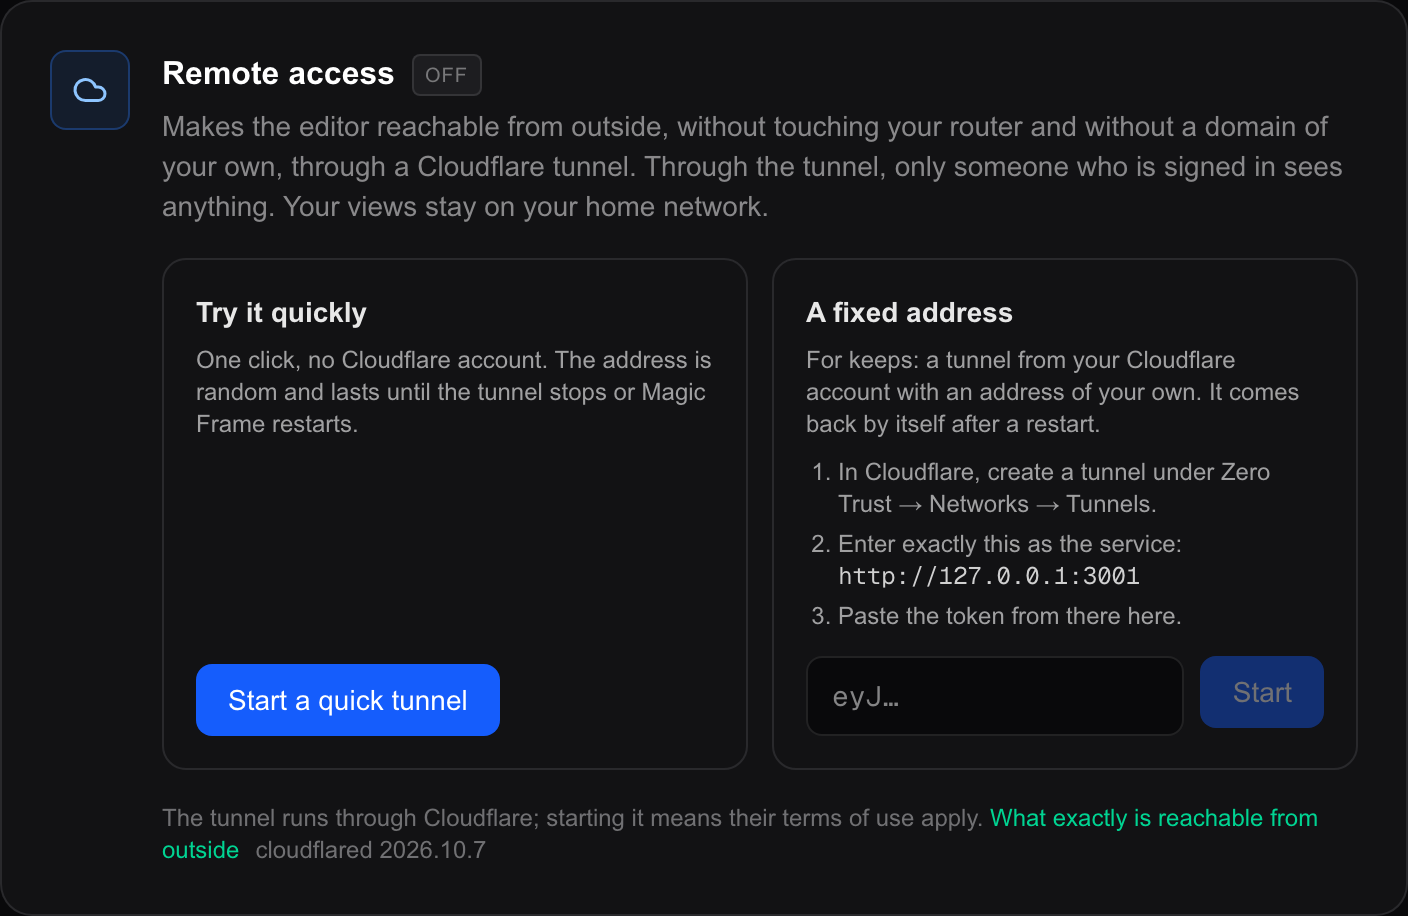
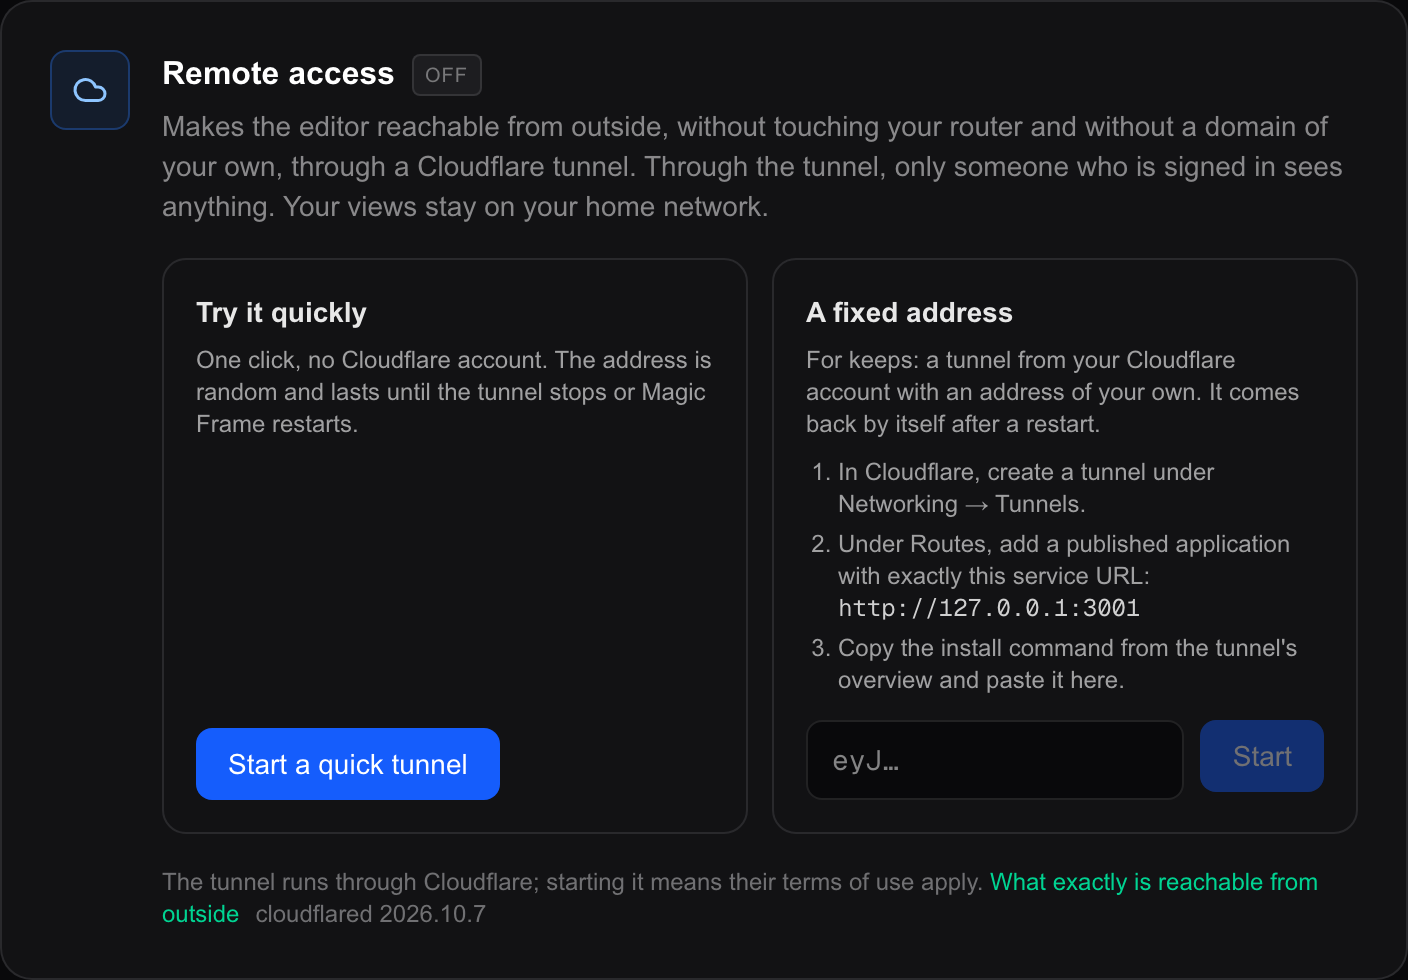
docs(tunnel): Cloudflare moved its tunnels to Networking → Tunnels
The card and the wiki still sent people to Zero Trust → Networks →
Tunnels, which now only says that tunnels have moved. The steps follow the
dashboard as it is now: Networking → Tunnels, a route of the kind
"Published application" with the service URL, and the install command from
the tunnel's overview — the dashboard shows the token only masked, its copy
button copies all of it. The wiki also says that deleting a tunnel leaves
its DNS record behind, and what the card's new reason under a refused token
means.

The settings shots are taken again, on a fresh demo database, because the
settings page changed.

diff --git a/src/lib/i18n/en.ts b/src/lib/i18n/en.ts
@@ -2340,9 +2340,9 @@ export const EN: Record<string, string> = {
   "Schnell-Tunnel starten": "Start a quick tunnel",
   "Feste Adresse": "A fixed address",
   "Für dauerhaft: ein Tunnel aus deinem Cloudflare-Konto mit eigener Adresse. Er startet nach einem Neustart von selbst wieder.": "For keeps: a tunnel from your Cloudflare account with an address of your own. It comes back by itself after a restart.",
-  "In Cloudflare unter Zero Trust → Networks → Tunnels einen Tunnel anlegen.": "In Cloudflare, create a tunnel under Zero Trust → Networks → Tunnels.",
-  "Als Dienst genau das eintragen:": "Enter exactly this as the service:",
-  "Das Token von dort hier einfügen.": "Paste the token from there here.",
+  "In Cloudflare unter Netzwerk → Tunnel einen Tunnel anlegen.": "In Cloudflare, create a tunnel under Networking → Tunnels.",
+  "Unter Routen eine veröffentlichte Anwendung hinzufügen, als Service-URL genau:": "Under Routes, add a published application with exactly this service URL:",
+  "In der Übersicht des Tunnels den Installationsbefehl kopieren und hier einfügen.": "Copy the install command from the tunnel's overview and paste it here.",
   "Festen Tunnel starten": "Start the fixed tunnel",
   "Token vergessen": "Forget the token",
   "Ein Token ist hinterlegt.": "A token is stored.",

diff --git a/src/app/editor/(app)/settings/page.tsx b/src/app/editor/(app)/settings/page.tsx
@@ -780,11 +780,11 @@ function TunnelCard() {
                   {t("Für dauerhaft: ein Tunnel aus deinem Cloudflare-Konto mit eigener Adresse. Er startet nach einem Neustart von selbst wieder.")}
                 </p>
                 <ol className="list-decimal ml-4 mt-2 mb-3 space-y-1">
-                  <li>{t("In Cloudflare unter Zero Trust → Networks → Tunnels einen Tunnel anlegen.")}</li>
+                  <li>{t("In Cloudflare unter Netzwerk → Tunnel einen Tunnel anlegen.")}</li>
                   <li>
-                    {t("Als Dienst genau das eintragen:")} <code className="font-mono text-[var(--mf-fg)]/80">{gateService}</code>
+                    {t("Unter Routen eine veröffentlichte Anwendung hinzufügen, als Service-URL genau:")} <code className="font-mono text-[var(--mf-fg)]/80">{gateService}</code>
                   </li>
-                  <li>{t("Das Token von dort hier einfügen.")}</li>
+                  <li>{t("In der Übersicht des Tunnels den Installationsbefehl kopieren und hier einfügen.")}</li>
                 </ol>
                 {info.hasStoredToken ? (
                   <div className="mt-auto flex flex-wrap items-center gap-2">

diff --git a/wiki/hosting-and-domain.md b/wiki/hosting-and-domain.md
@@ -174,15 +174,25 @@ tunnel stays up.
 
 This needs a Cloudflare account with a domain in it.
 
-1. In the Cloudflare dashboard, go to `Zero Trust → Networks → Tunnels` and
-   create a tunnel of the type *Cloudflared*.
-2. Add a public hostname to it. As the **service**, enter exactly
-   `http://127.0.0.1:3001` — the card shows the line to copy.
-3. Copy the tunnel's token and paste it into the card. You can paste the whole
-   install command Cloudflare shows; Magic Frame picks the token out of it.
+1. In the Cloudflare dashboard, go to **Networking → Tunnels** (German:
+   `Netzwerk → Tunnel`; the old place under Zero Trust only says that they
+   have moved). Create a tunnel; only a name is asked.
+2. On the tunnel's **Routes** tab, select **Add route → Published
+   application**. Choose the subdomain and the domain — the dashboard
+   preselects one of your domains, so check that it is the right one. As the
+   **Service URL**, enter exactly `http://127.0.0.1:3001` — the card shows the
+   line to copy.
+3. On the tunnel's overview, copy the install command (for example *Debian →
+   Install as service*) and paste it into the card. The dashboard shows the
+   token masked, but its copy button copies all of it; Magic Frame picks the
+   token out of the command.
 
 The tunnel now comes back after every restart. The token is stored for that and
 is never shown again; **Forget the token** (`Token vergessen`) removes it.
+
+Should you delete the tunnel in Cloudflare one day: the address stays in your
+domain's DNS records and has to be removed there by hand. Cloudflare says so
+when you delete it.
 
 The service address matters. `3001` is the entrance with the rule above; the
 normal port is not. Magic Frame checks what the Cloudflare dashboard says: if
@@ -457,7 +467,8 @@ interface. See [The Home Assistant add-on](home-assistant-addon.md).
 | Logged out again immediately after every sign-in | `COOKIE_SECURE="true"` while you are still on plain HTTP. |
 | Google or Microsoft calendar drops its connection behind a proxy | `APP_BASE_URL` is not set. |
 | The tunnel is stopped after a minute: *no connection to Cloudflare* | The network lets nothing out to Cloudflare on port 7844 (TCP). A firewall or a guest network usually. |
-| The tunnel is stopped: *an entry in the Cloudflare dashboard does not point at the tunnel entrance* | The service of the public hostname must be `http://127.0.0.1:3001`. The card shows which entry is wrong. |
+| The tunnel is stopped: *an entry in the Cloudflare dashboard does not point at the tunnel entrance* | The service URL of the route must be `http://127.0.0.1:3001`. The card shows which entry is wrong. |
+| *Cloudflare rejected the token*, with `Unauthorized: Tunnel not found` under it | The tunnel was deleted in the Cloudflare dashboard. Copy the line of the tunnel you use now and paste it, or forget the token. |
 | Through the tunnel, a view sends you to the sign-in page | That is the rule, not a fault: [from outside, views open only for someone who is signed in](#what-is-reachable-from-outside-and-what-is-not). |
 
 More of these, in more detail, on [Troubleshooting](troubleshooting.md).
